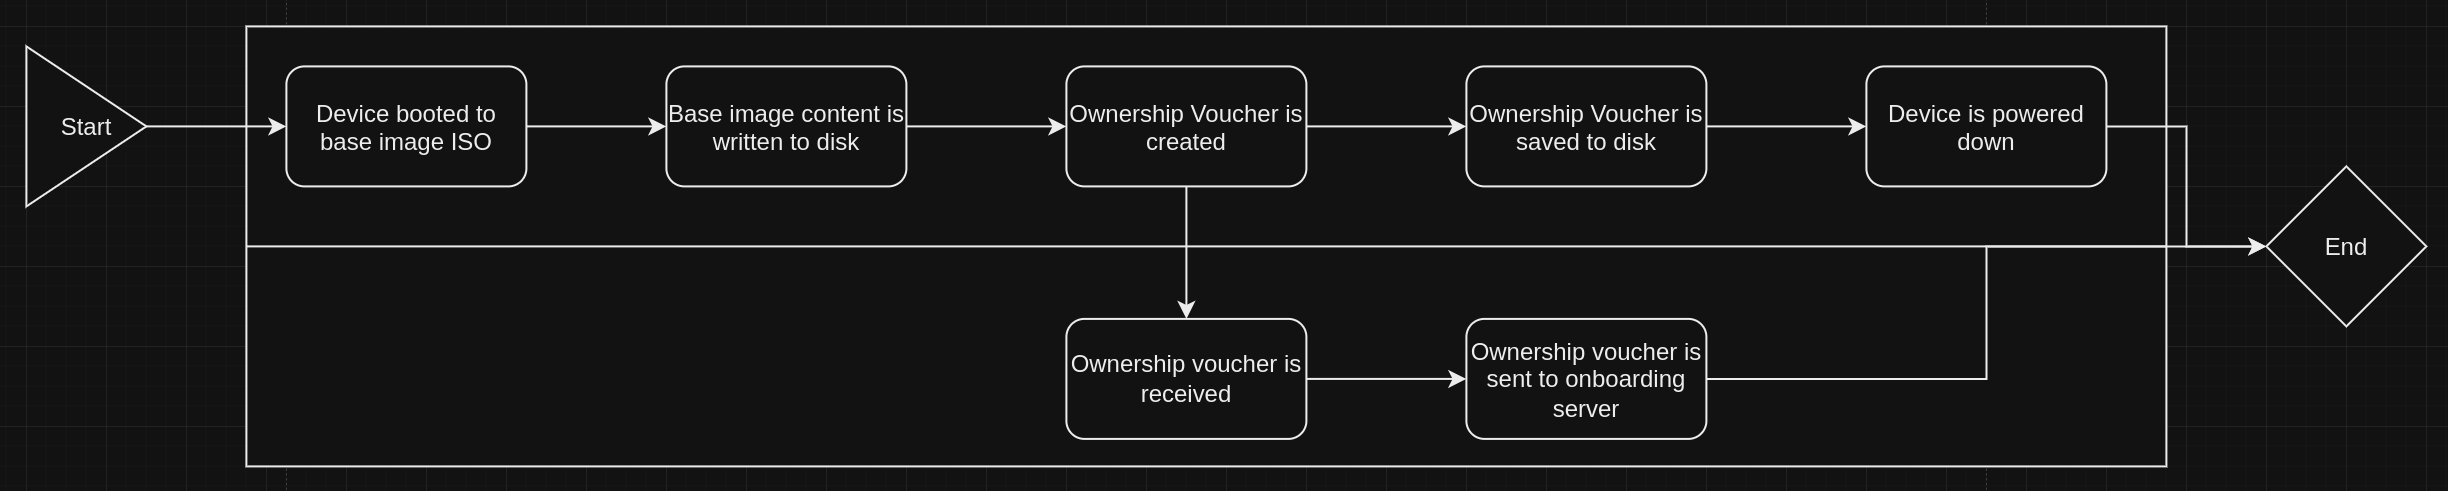
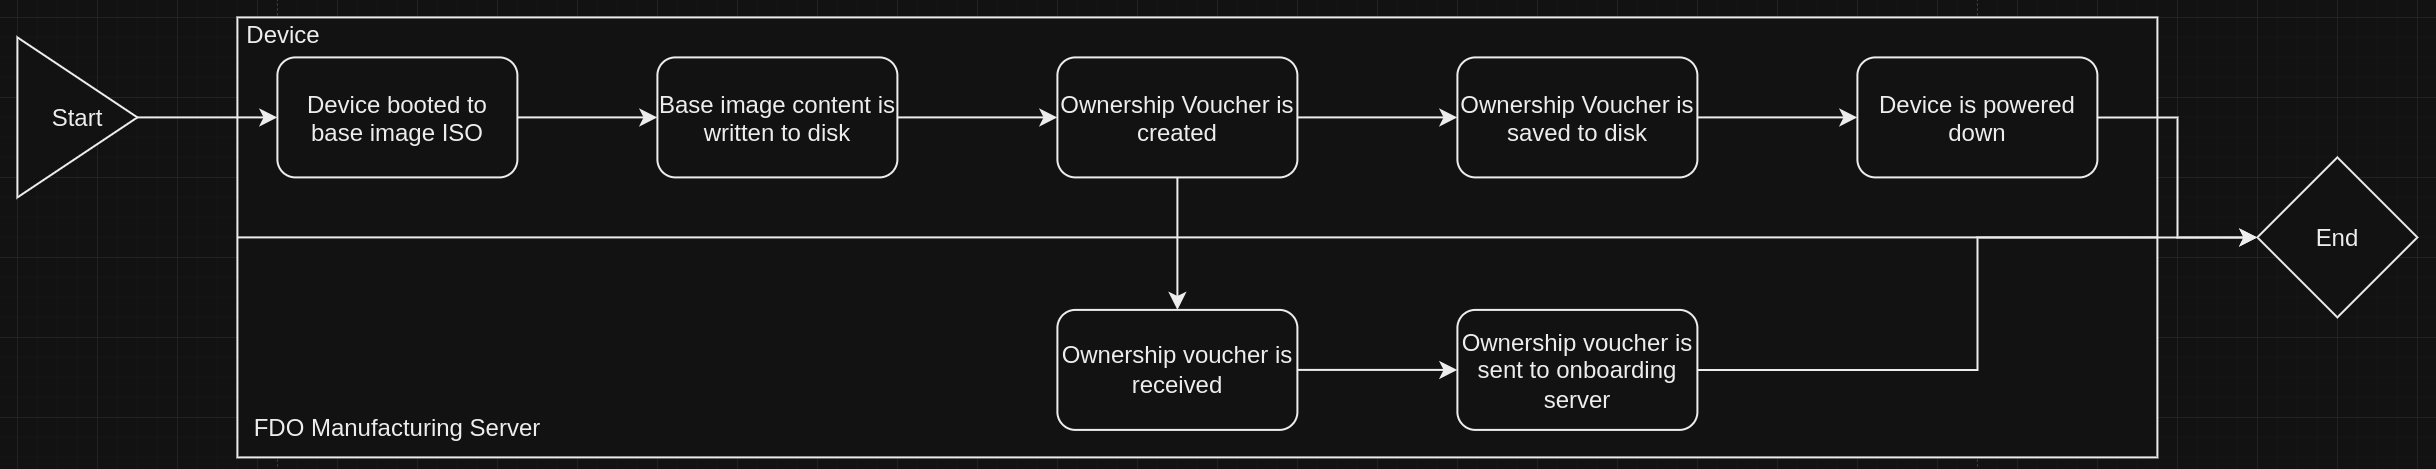
keep adding to pattern

diff --git a/patterns/embedding-rhde-at-manufacturing/README.md b/patterns/embedding-rhde-at-manufacturing/README.md
@@ -106,13 +106,12 @@ As part of this preparation, container images for the example workload have been
 #### Step 1 - Applying Image to Devices
 ![Installing Base Image](./.images/installing-base-image.png)
 
-
 As devices are manufactured, one of the last steps to be completed is applying the base image to disk. This step accomplishes a few key goals:
-1. 
+1. Application of base image to devices
+2. Creation of ownership vouchers
+3. Forwarding of ownership vouchers to onboarding server
 
-```
-1. Bulk apply gold installation to devices
-2. Ownership vouchers transfered to onboarding server
+Once complete, the devices are prepared to be shipped to their destination and securely onboarded. In addition, the devices can be stored for long periods of time, without issue, however pulling updates once onboarded at their destination is recommended.
 
 ### Phase 3 - Gather Deployment Requirements
 1. Identify desired workloads to be deployed
